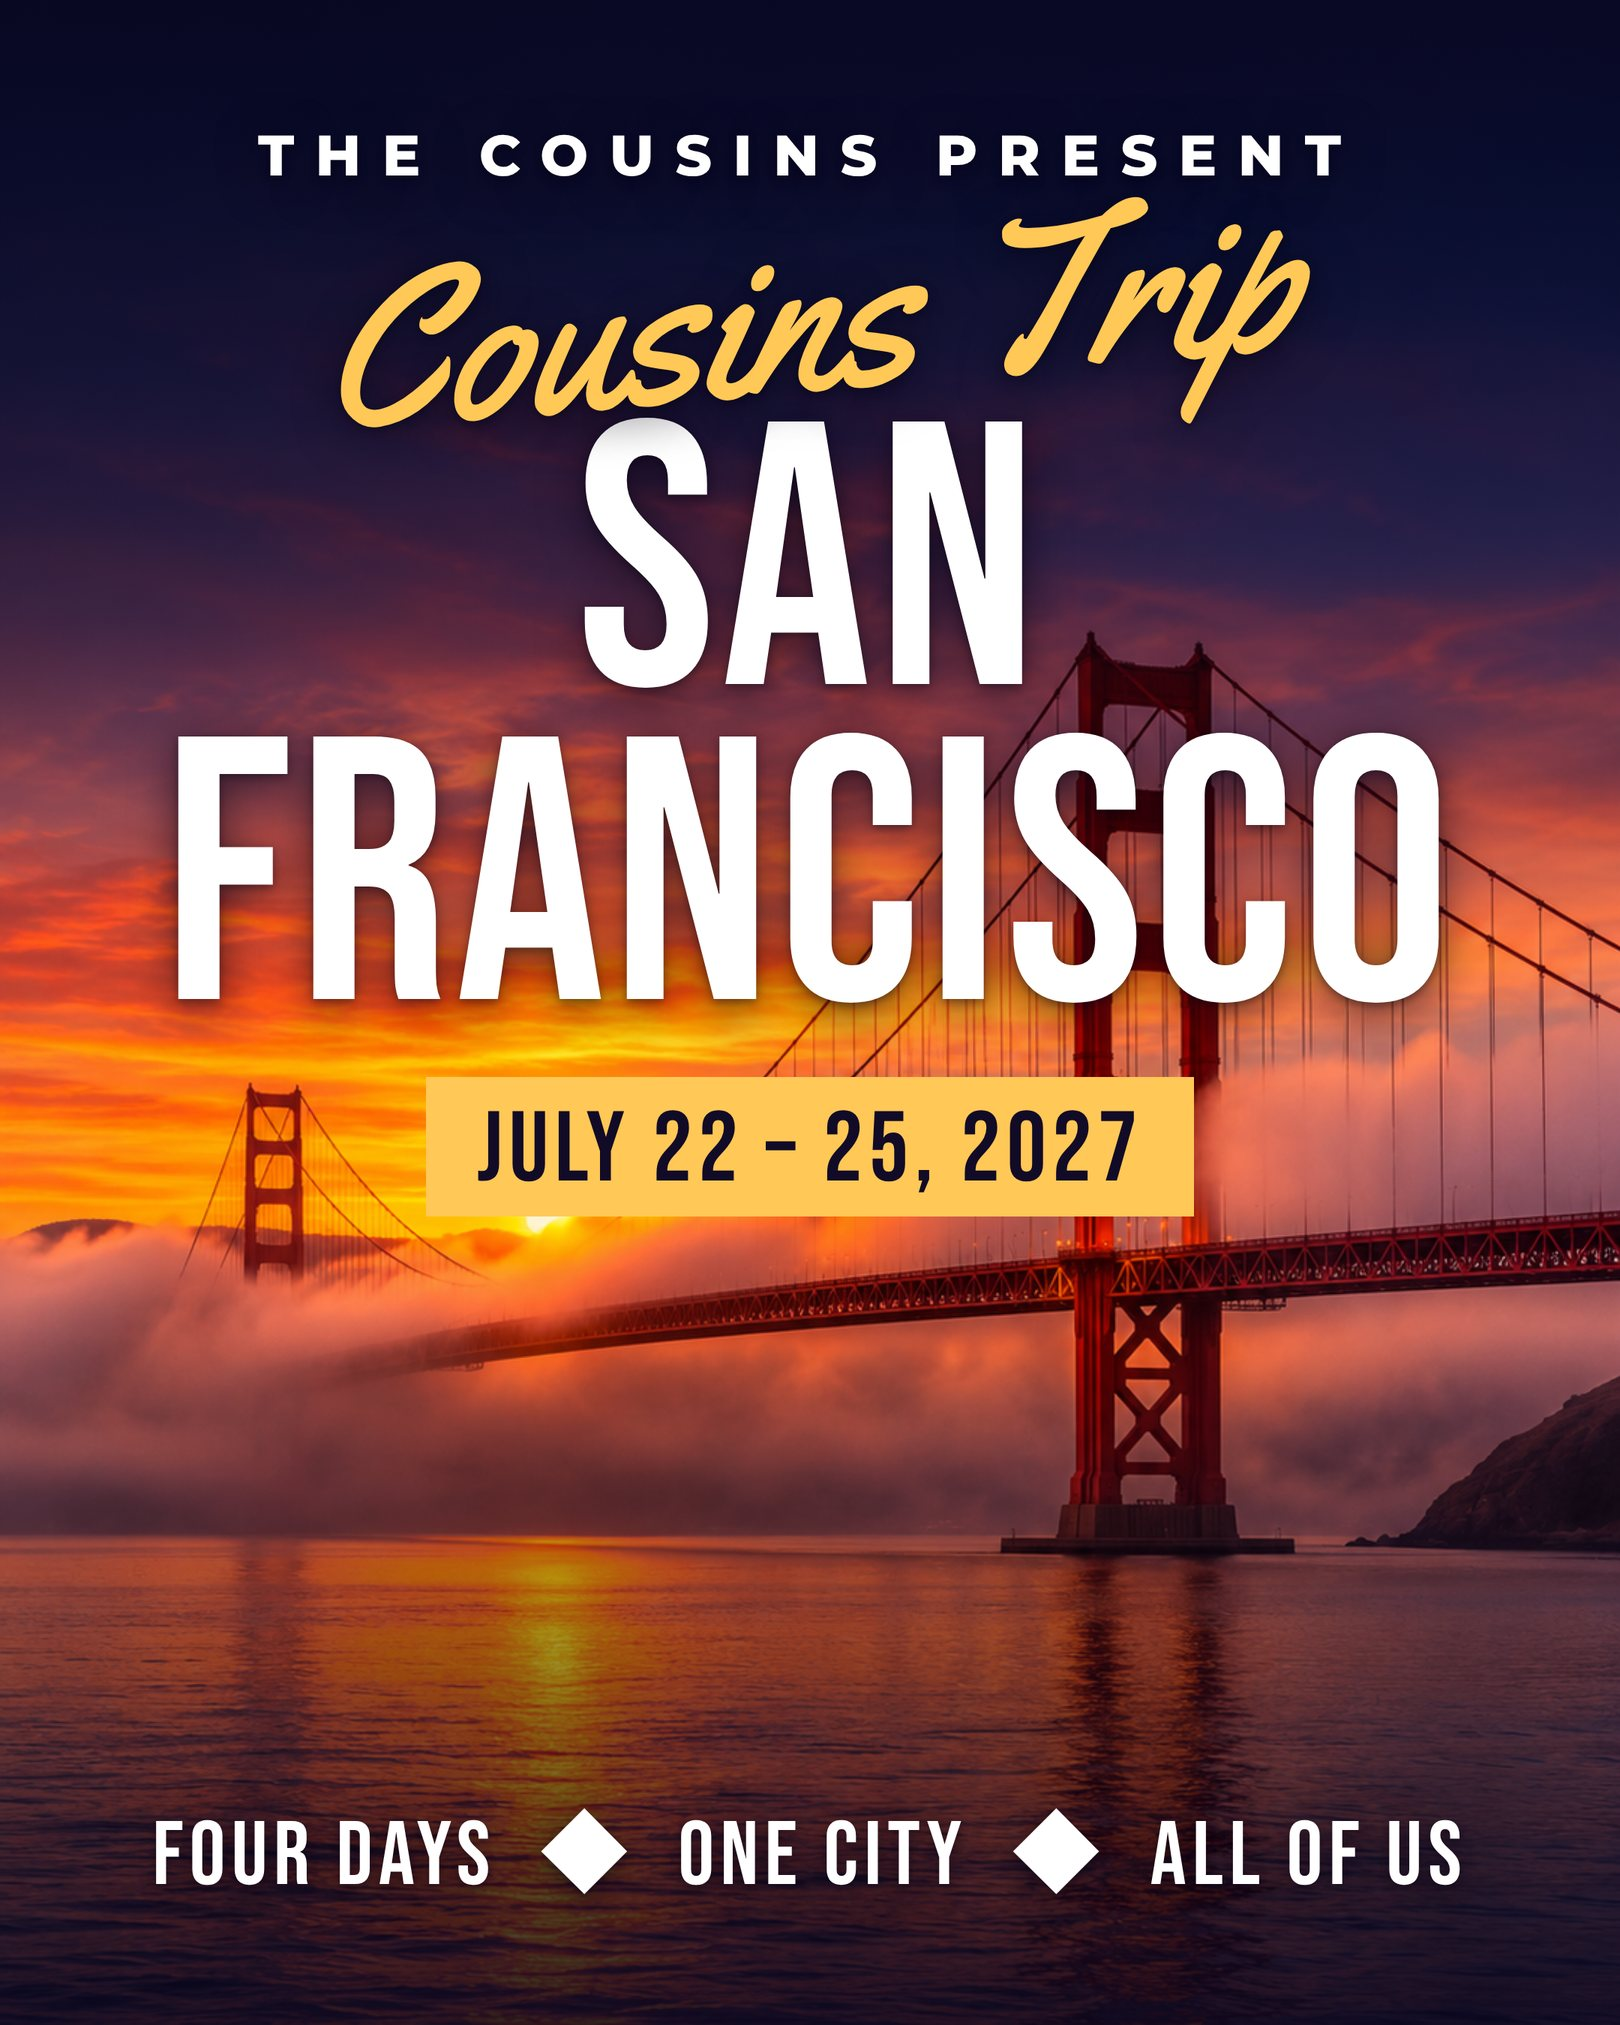
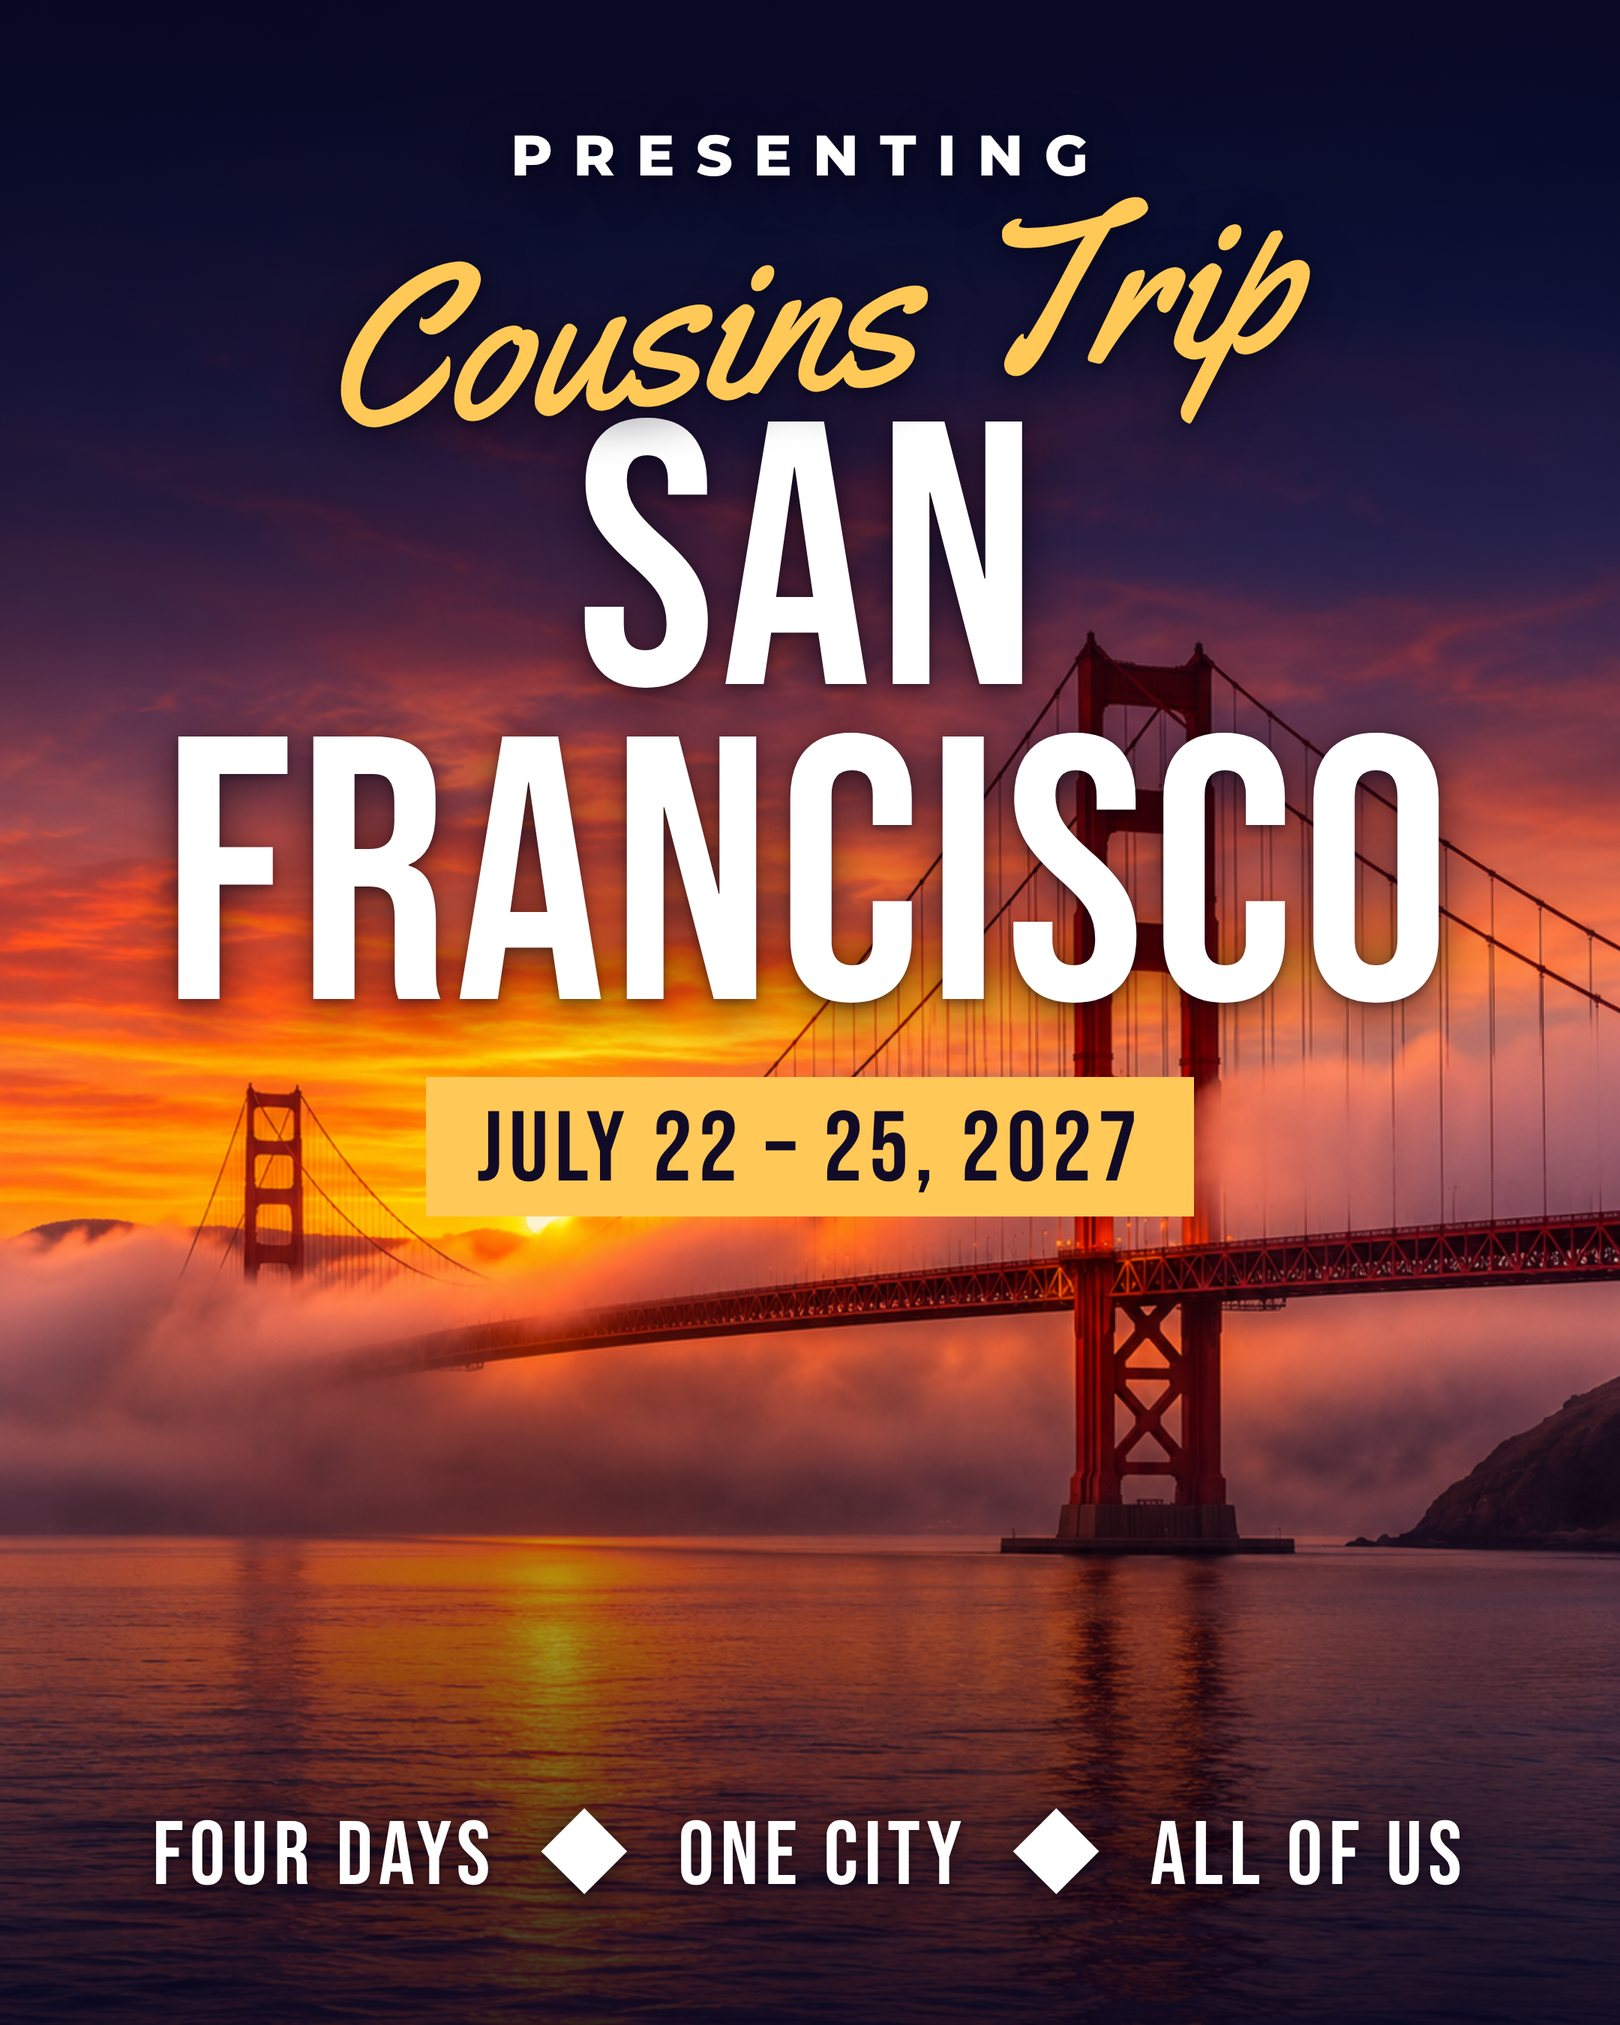
Cover and passcode screen: PRESENTING instead of THE COUSINS PRESENT
Claude-Session: https://claude.ai/code/session_01LzFaRAZHXHNSAEe9EkeWR1

Changed region(s): [[0.1543, 0.0622, 0.8333, 0.0933]]

diff --git a/index.html b/index.html
@@ -355,7 +355,7 @@
 <div class="gate" id="gate" hidden>
   <div class="pbg"></div>
   <form id="gateForm" autocomplete="off">
-    <div class="kick">THE COUSINS PRESENT</div>
+    <div class="kick">PRESENTING</div>
     <div class="script">Cousins Trip</div>
     <div class="huge">San Francisco</div>
     <label for="gatePass" class="sub">Family only. Enter the passcode.</label>
